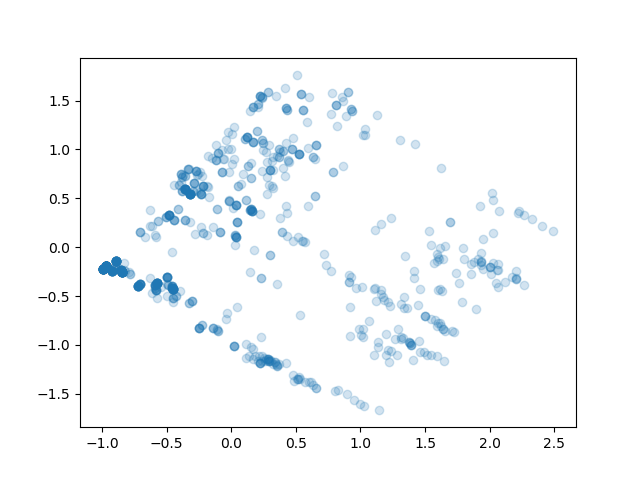
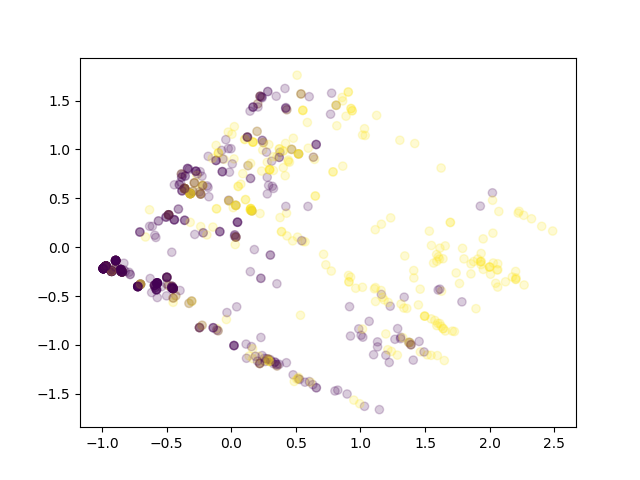
up

diff --git a/titanic/linear_regression.py b/titanic/linear_regression.py
@@ -144,12 +144,12 @@ pca = PCA(n_components=2)
 #pca = PCA()
 X = pca.fit_transform(X)
 
-plt.scatter(X[:, 0], X[:, 1], alpha=0.2)
-plt.savefig("data.png")
-
 labelenc_survive = LabelEncoder()
 y = labelenc_survive.fit_transform(data["Survived"])
 print(y)
+
+plt.scatter(X[:, 0], X[:, 1], alpha=0.2, c=y)
+plt.savefig("data.png")
 
 model = LinearRegression().fit(X, y)
 

diff --git a/titanic/README.md b/titanic/README.md
@@ -1,2 +1,6 @@
 # kaggle
 Kaggle compete
+
+#### Linear Regression
+
+ - pca the train data, seems that the data can't be classified by linear regression. get `0.77033` accuracy on the test set.
